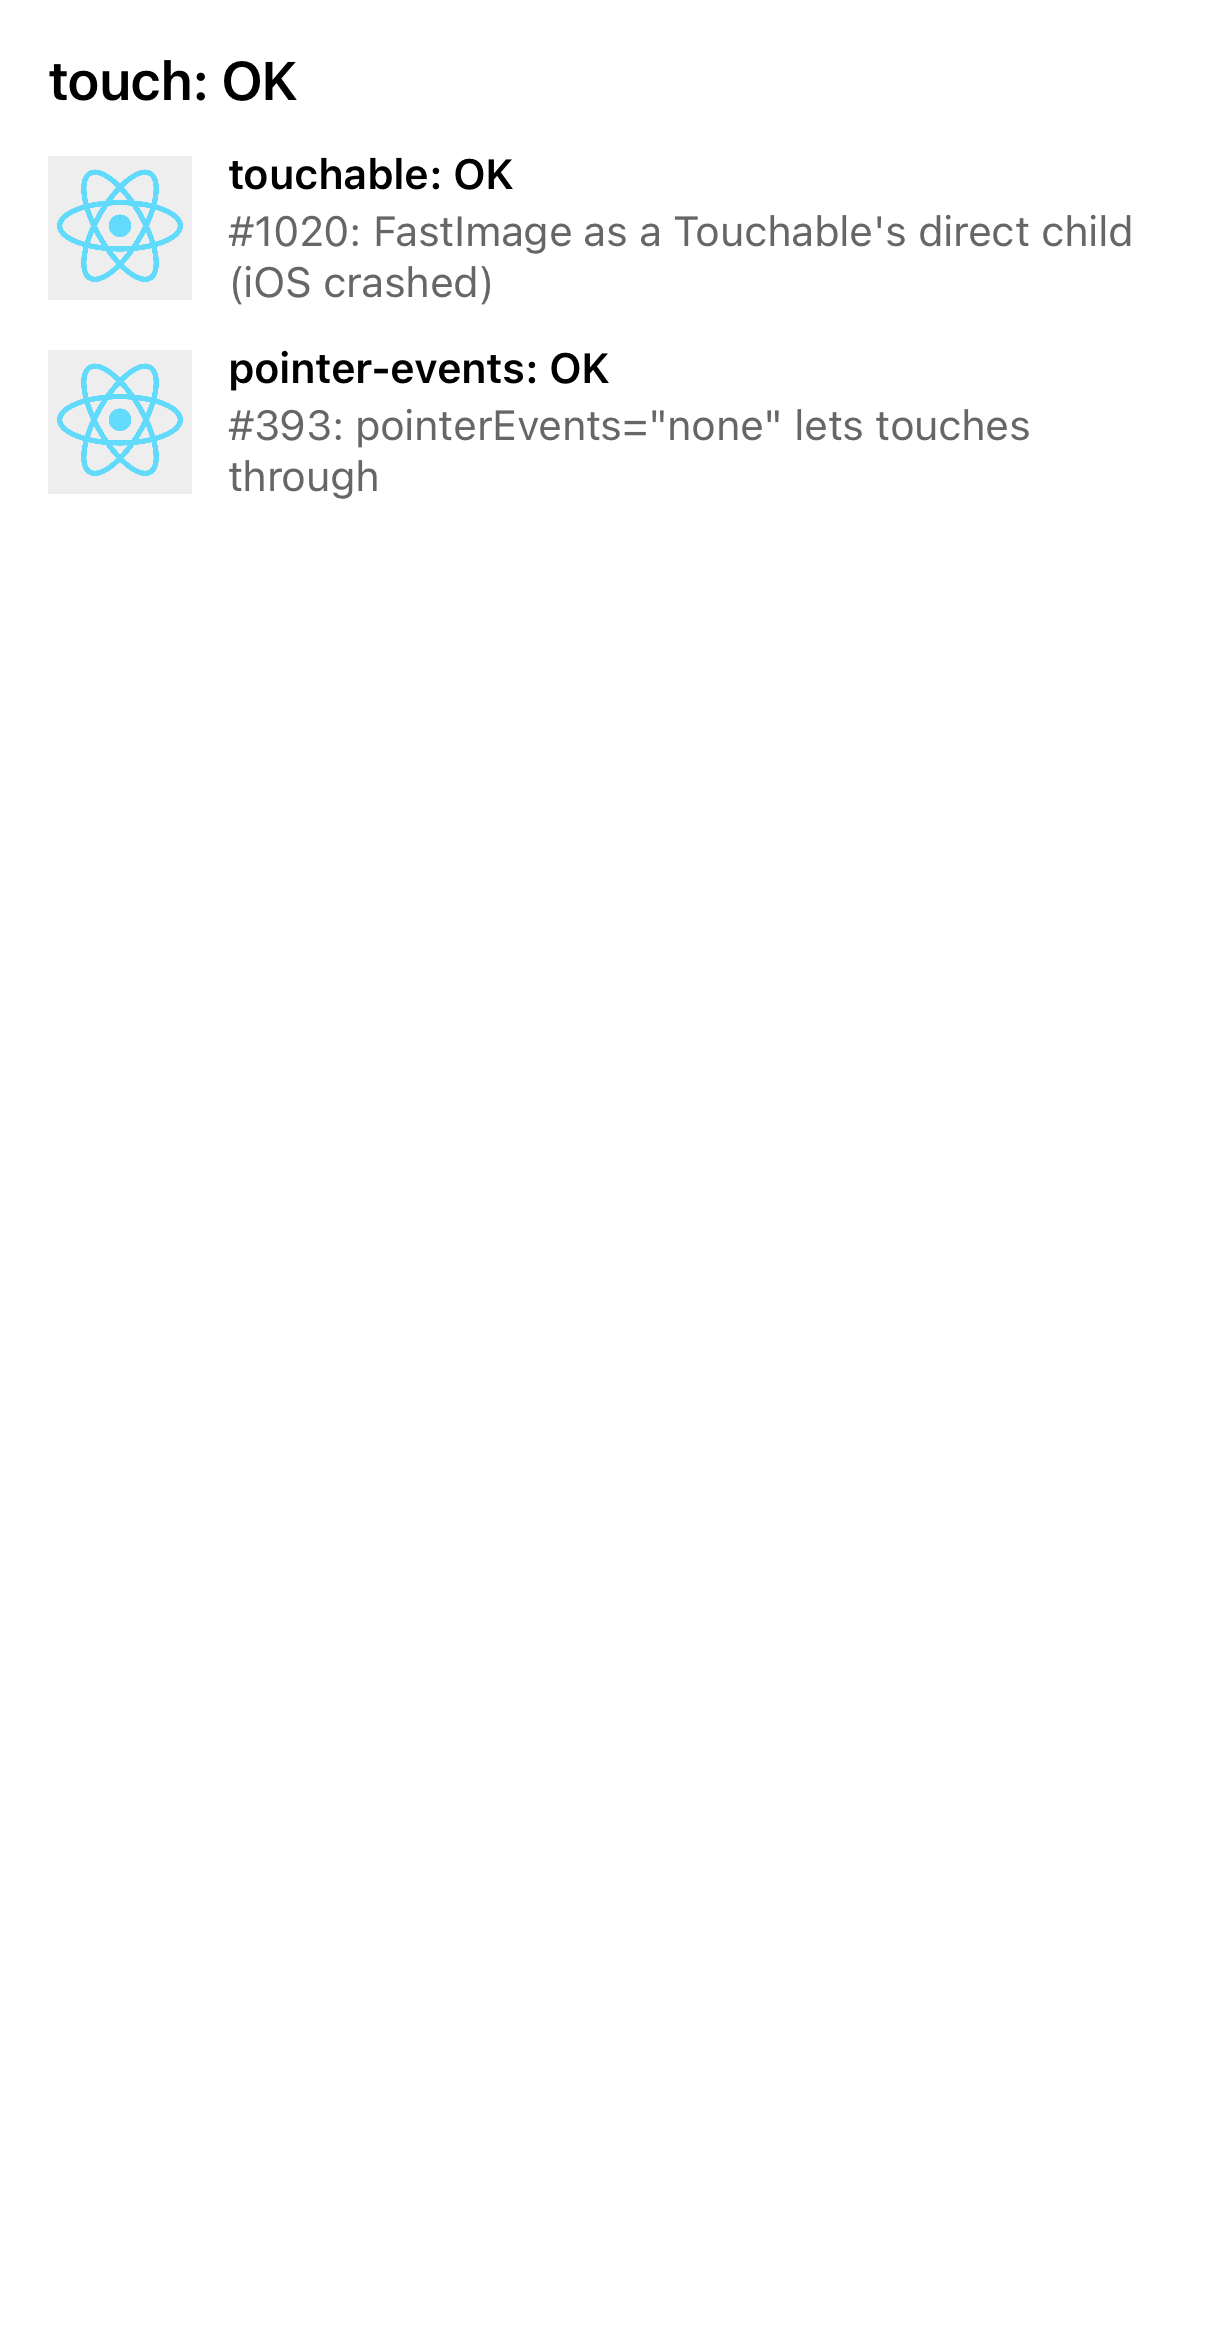
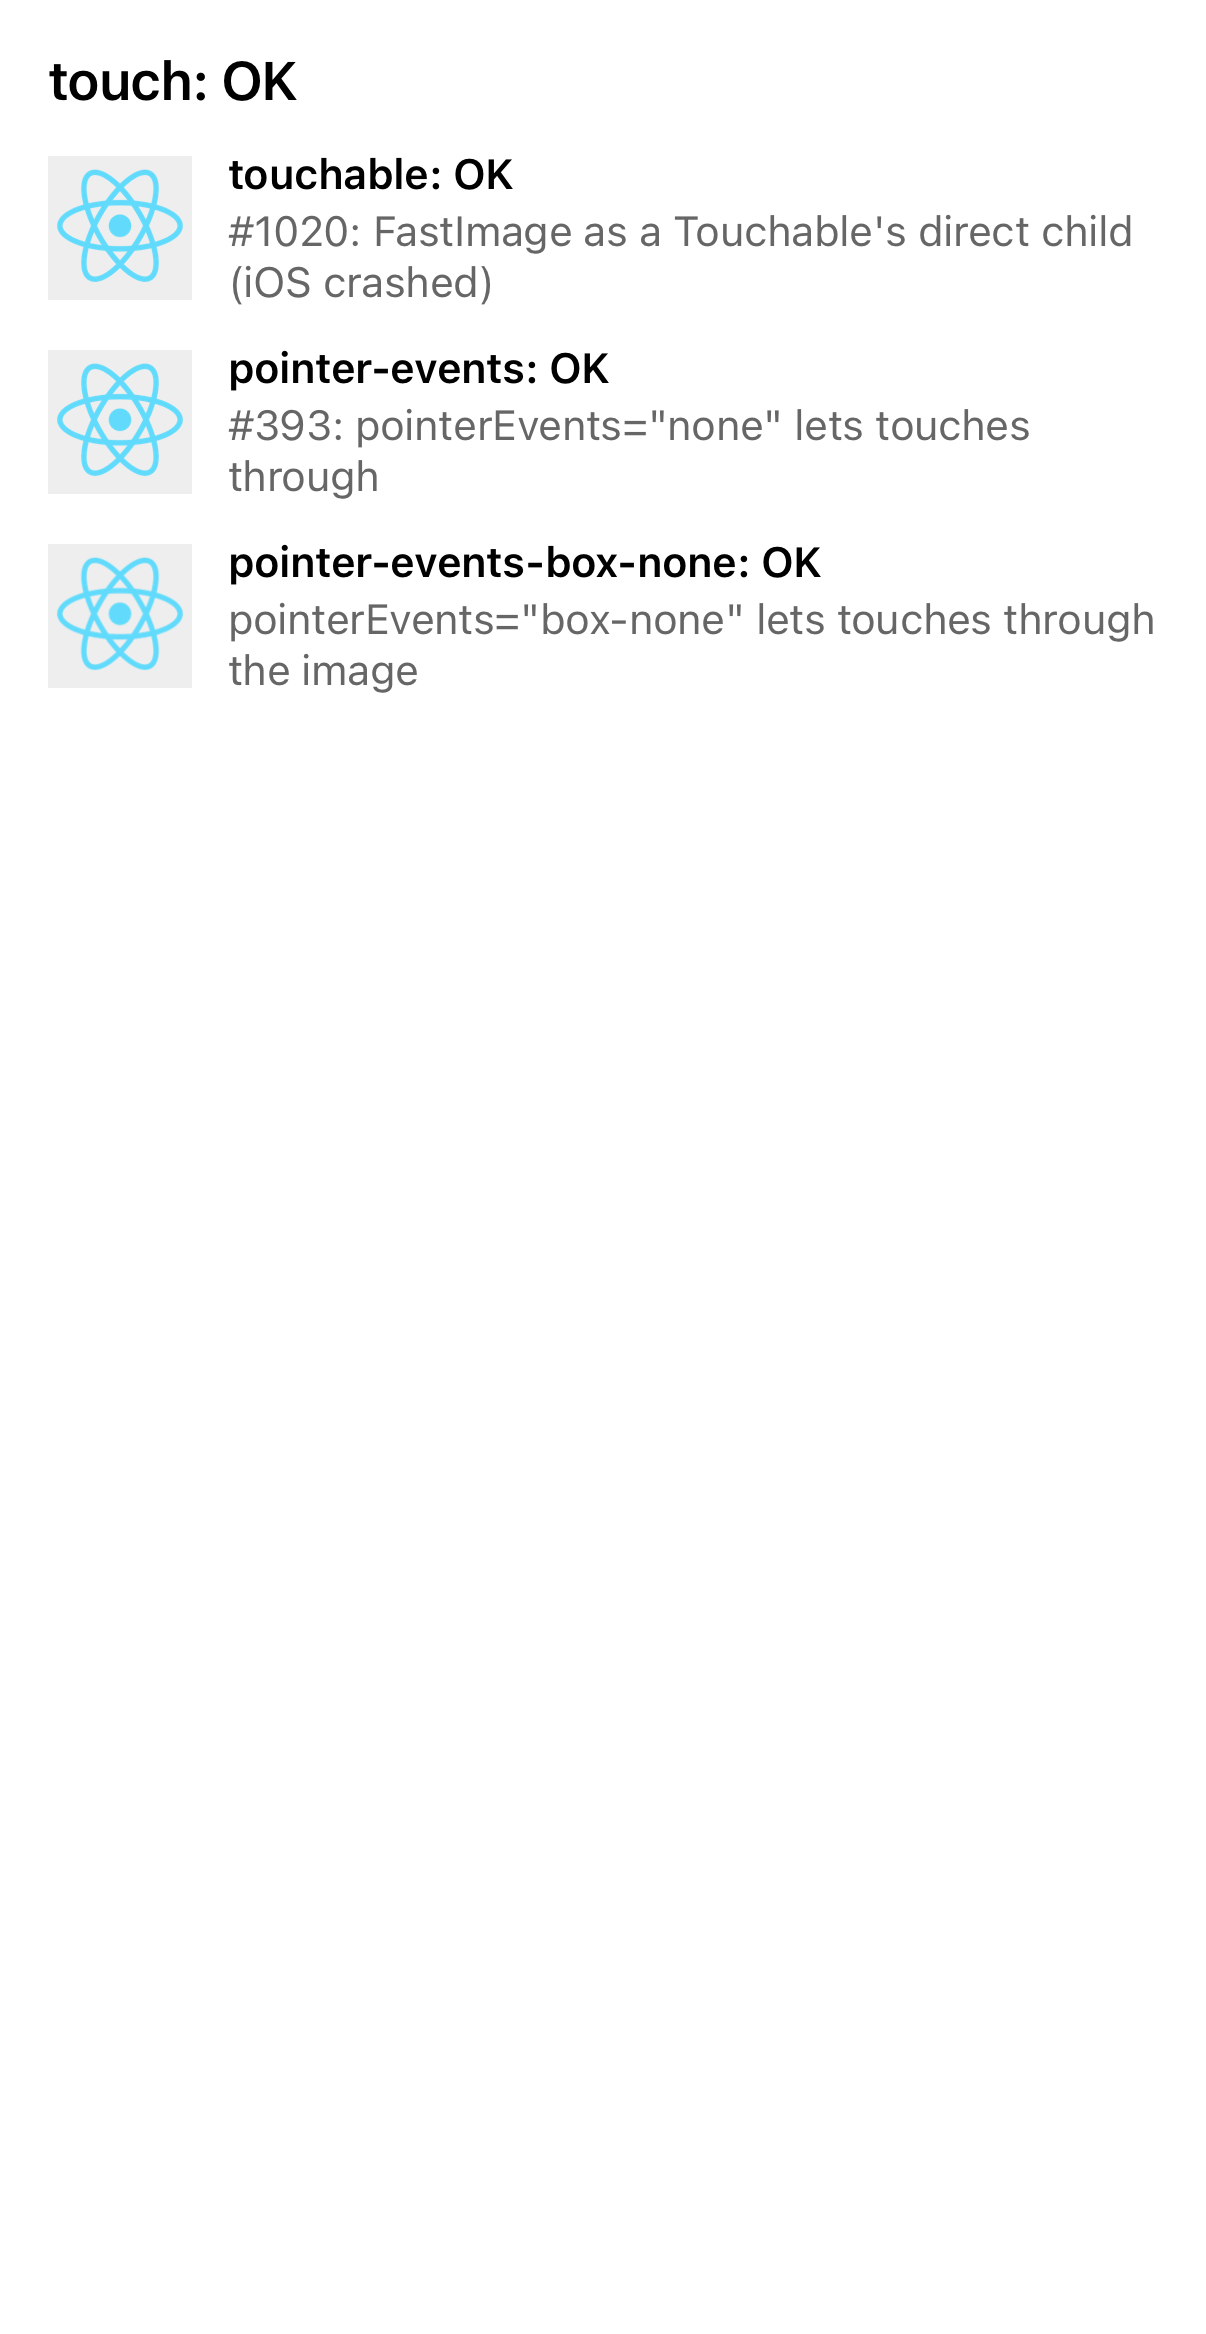
fix(android): pointerEvents="box-none" lets touches through the image
With box-none, FastImage gives its image view pointerEvents "none" (the
image is part of the box), but on Android the view didn't read
pointerEvents, so it took the touch instead of the views under it. The view
manager now sets it, and the view is a ReactPointerEventsView, which React
Native's touch handling reads. A regression case taps through a box-none
image.

Changed region(s): [[0.1841, 0.2159, 0.9511, 0.3085], [0.0307, 0.2159, 0.1534, 0.3085]]

diff --git a/ReactNativeFastImageExample/src/RegressionExample.tsx b/ReactNativeFastImageExample/src/RegressionExample.tsx
@@ -317,6 +317,35 @@ function PointerEventsCase() {
     )
 }
 
+// A FastImage with pointerEvents="box-none" over a Pressable. maestro/touch.yaml
+// taps the Pressable's position; passes when it gets the press. The image is
+// part of the box (FastImage gives it "none"), but on Android its view didn't
+// read pointerEvents, and took the touch.
+function PointerEventsBoxNoneCase() {
+    const [pressed, setPressed] = useState(false)
+    return (
+        <View style={styles.row}>
+            <View>
+                <Pressable
+                    testID="regression-box-none-target"
+                    style={styles.image}
+                    onPress={() => setPressed(true)}
+                />
+                <FastImage
+                    pointerEvents="box-none"
+                    style={[styles.image, StyleSheet.absoluteFill]}
+                    source={{ uri: LOGO }}
+                />
+            </View>
+            <CaseStatus
+                id="pointer-events-box-none"
+                status={pressed ? 'OK' : 'tap the image'}
+                description='pointerEvents="box-none" lets touches through the image'
+            />
+        </View>
+    )
+}
+
 // A wide image in square boxes: the left one is contain; the right one loads
 // as cover, then switches to contain. Both should match (checked by
 // screenshot). Android kept showing the cover crop.
@@ -5541,6 +5570,7 @@ export const REGRESSION_GROUPS: RegressionGroup[] = [
         cases: [
             <TouchableCase key="touchable" />,
             <PointerEventsCase key="pointer-events" />,
+            <PointerEventsBoxNoneCase key="pointer-events-box-none" />,
         ],
     },
 ]

diff --git a/android/src/main/java/com/dylanvann/fastimage/FastImageViewWithUrl.java b/android/src/main/java/com/dylanvann/fastimage/FastImageViewWithUrl.java
@@ -43,6 +43,8 @@ import com.facebook.react.bridge.ReadableArray;
 import com.facebook.react.bridge.ReadableMap;
 import com.facebook.react.bridge.WritableMap;
 import com.facebook.react.bridge.WritableNativeMap;
+import com.facebook.react.uimanager.PointerEvents;
+import com.facebook.react.uimanager.ReactPointerEventsView;
 
 import java.util.ArrayList;
 import java.util.Collections;
@@ -51,7 +53,7 @@ import java.util.Map;
 
 import javax.annotation.Nonnull;
 
-class FastImageViewWithUrl extends AppCompatImageView {
+class FastImageViewWithUrl extends AppCompatImageView implements ReactPointerEventsView {
     private boolean mNeedsReload = false;
     private ReadableMap mSource = null;
     private Drawable mDefaultSource = null;
@@ -64,6 +66,20 @@ class FastImageViewWithUrl extends AppCompatImageView {
     public FastImageViewWithUrl(Context context, @Nullable RequestManager requestManager) {
         super(context);
         this.requestManager = requestManager;
+    }
+
+    // FastImage sends "none" when it has pointerEvents="box-none" (the image
+    // is part of the box, which doesn't take touches). React Native's touch
+    // handling only reads pointerEvents from a ReactPointerEventsView.
+    private PointerEvents mPointerEvents = PointerEvents.AUTO;
+
+    @Override
+    public PointerEvents getPointerEvents() {
+        return mPointerEvents;
+    }
+
+    void setPointerEvents(PointerEvents pointerEvents) {
+        mPointerEvents = pointerEvents;
     }
 
     public void setSource(@Nullable ReadableMap source) {

diff --git a/android/src/main/java/com/dylanvann/fastimage/FastImageViewManager.java b/android/src/main/java/com/dylanvann/fastimage/FastImageViewManager.java
@@ -23,10 +23,12 @@ import com.facebook.react.uimanager.SimpleViewManager;
 import com.facebook.react.bridge.ReactContext;
 import com.facebook.react.uimanager.ThemedReactContext;
 import com.facebook.react.uimanager.PixelUtil;
+import com.facebook.react.uimanager.PointerEvents;
 import com.facebook.react.uimanager.annotations.ReactProp;
 import com.facebook.react.views.imagehelper.ResourceDrawableIdHelper;
 
 import java.util.List;
+import java.util.Locale;
 import java.util.Map;
 import java.util.WeakHashMap;
 
@@ -80,6 +82,16 @@ class FastImageViewManager extends SimpleViewManager<FastImageViewWithUrl> imple
         view.setDefaultSource(
                 ResourceDrawableIdHelper.getInstance()
                         .getResourceDrawable(view.getContext(), source));
+    }
+
+    // React Native's View manager handles pointerEvents; a SimpleViewManager
+    // doesn't. Parsed here: PointerEvents.parsePointerEvents isn't in every
+    // supported React Native version.
+    @ReactProp(name = "pointerEvents")
+    public void setPointerEvents(FastImageViewWithUrl view, @Nullable String pointerEvents) {
+        view.setPointerEvents(pointerEvents == null
+                ? PointerEvents.AUTO
+                : PointerEvents.valueOf(pointerEvents.toUpperCase(Locale.US).replace('-', '_')));
     }
 
     @ReactProp(name = "tintColor", customType = "Color")
